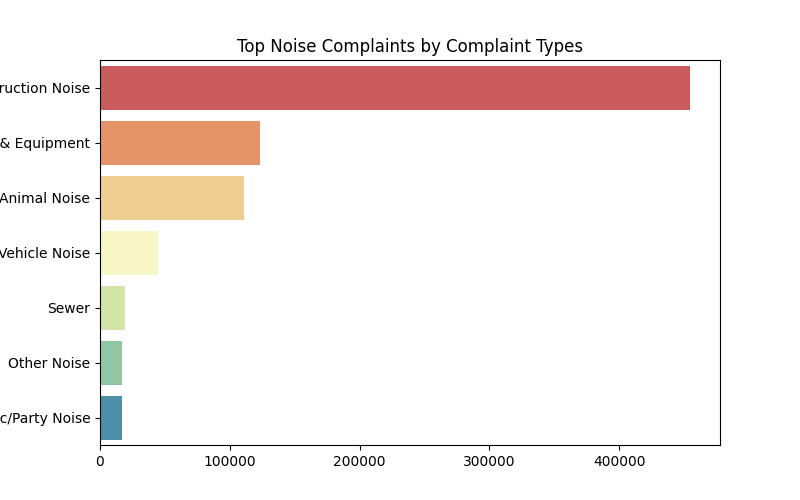
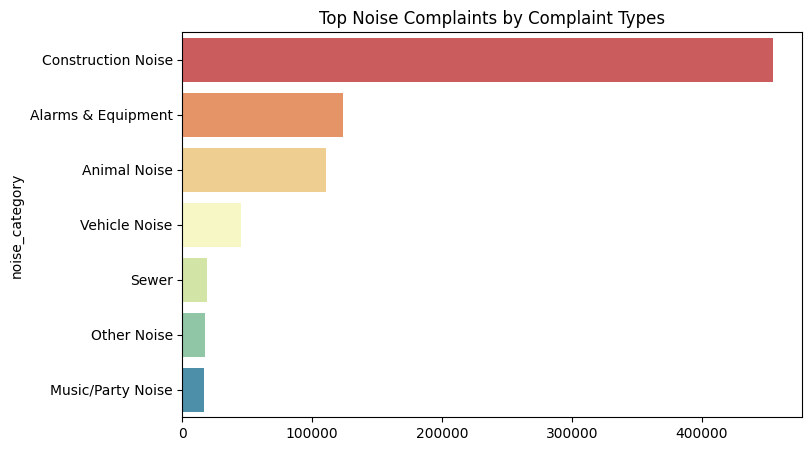
error in plots resolved

Changed region(s): [[0.0, 0.031, 1.0, 0.9933], [0.8438, 0.9313, 0.9062, 0.9933], [0.9688, 0.9002, 1.0, 0.9313]]

diff --git a/src/visualizations.py b/src/visualizations.py
@@ -60,7 +60,7 @@ class EDA:
 
     def _plot_complaint_types(self, top_n=10, ax=None):
         if ax is None:
-            plt.figure(figsize=(8,5))
+            plt.figure(figsize=(10,5))
 
         top_types = self._df["noise_category"].value_counts().head(top_n)
         sns.barplot(x=top_types.values, y=top_types.index, palette="Spectral")
